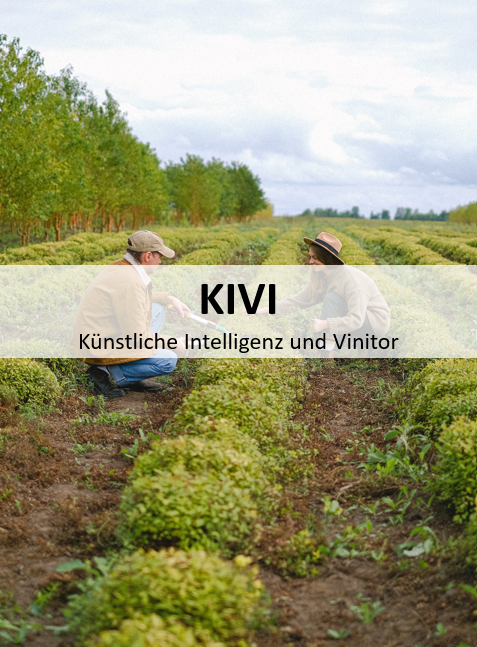
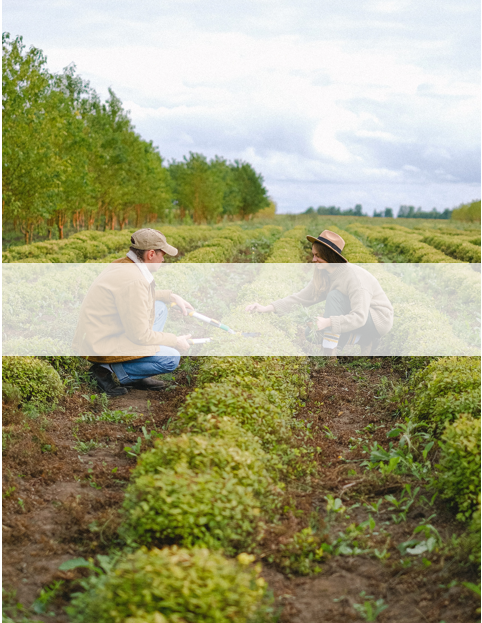
Deploying to gh-pages from  @ c149c7b318b43c5002b0c84386e6df9355ac086c 🚀

diff --git a/slides/projAward.html b/slides/projAward.html
@@ -1,4 +1,4 @@
-<!DOCTYPE html><html lang="en"><head><meta charset="utf-8"><meta name="viewport" content="width=device-width, initial-scale=1.0, maximum-scale=1.0, user-scalable=no, minimal-ui"><title>KIVI</title><meta name="author" content="1.0, 2020-08-22"><link rel="stylesheet" href="revealjs/css/reset.css"><link rel="stylesheet" href="revealjs/css/reveal.css"><link rel="stylesheet" href="revealjs/css/theme/white.css" id="theme"><!--This CSS is generated by the Asciidoctor reveal.js converter to further integrate AsciiDoc's existing semantic with reveal.js--><style type="text/css">.reveal div.right {
+<!DOCTYPE html><html lang="en"><head><meta charset="utf-8"><meta name="viewport" content="width=device-width, initial-scale=1.0, maximum-scale=1.0, user-scalable=no, minimal-ui"><title>KIVI</title><meta name="author" content="Künstliche Intelligenz und Vinitor"><link rel="stylesheet" href="revealjs/css/reset.css"><link rel="stylesheet" href="revealjs/css/reveal.css"><link rel="stylesheet" href="revealjs/css/theme/white.css" id="theme"><!--This CSS is generated by the Asciidoctor reveal.js converter to further integrate AsciiDoc's existing semantic with reveal.js--><style type="text/css">.reveal div.right {
   float: right
 }
 
@@ -392,7 +392,7 @@ td.hdlist1 {
 link.rel = 'stylesheet';
 link.type = 'text/css';
 link.href = window.location.search.match( /print-pdf/gi ) ? "revealjs/css/print/pdf.css" : "revealjs/css/print/paper.css";
-document.getElementsByTagName( 'head' )[0].appendChild( link );</script><link rel="stylesheet" href="slides.css"></head><body><div class="reveal"><div class="slides"><section class="title" data-state="title" data-background-image="../images/menschen1.jpg"><h1>KIVI</h1><p class="author"><small>1.0, 2020-08-22</small></p></section><section id="_projektteam"><h2>Projektteam</h2><div class="slide-content"><div class="imageblock plain"><img src="../images/wir.jpeg" alt="wir" width="600px"></div>
+document.getElementsByTagName( 'head' )[0].appendChild( link );</script><link rel="stylesheet" href="slides.css"></head><body><div class="reveal"><div class="slides"><section class="title" data-state="title" data-background-image="../images/menschen1.jpg"><h1>KIVI</h1><p class="author"><small>Künstliche Intelligenz und Vinitor</small></p></section><section id="_projektteam"><h2>Projektteam</h2><div class="slide-content"><div class="imageblock plain"><img src="../images/wir.jpeg" alt="wir" width="600px"></div>
 <div class="paragraph"><p>Sheila Hautzmayer und Anna Hartl</p></div></div></section>
 <section id="_vinitor" class="lightbg" data-background-image="../images/vinitor.png" data-background-size="1200px"><h2>Vinitor</h2></section>
 <section id="_proof_of_concept" class="lightbg" data-background-image="../images/pexels-photo-1068523.jpeg" data-background-size="1400px" data-background-opacity="0.8"><h2>Proof Of Concept</h2><div class="slide-content">

diff --git a/index.html b/index.html
@@ -604,7 +604,7 @@ and time-consuming. Instead, businesses nowadays require fast delivery of high-q
 <div id="footer">
 <div id="footer-text">
 Version 1.0.0<br>
-Last updated 2023-04-07 08:18:28 UTC
+Last updated 2023-04-07 08:21:34 UTC
 </div>
 </div>
 </body>

diff --git a/TestContainers.html b/TestContainers.html
@@ -521,7 +521,7 @@ Diese arbeiten im Hintergrund ebenfalls in Testcontainern.</p>
 <div id="footer">
 <div id="footer-text">
 Version 1.0.0<br>
-Last updated 2023-04-07 08:18:28 UTC
+Last updated 2023-04-07 08:21:34 UTC
 </div>
 </div>
 </body>

diff --git a/ContinuousTestingExample.html b/ContinuousTestingExample.html
@@ -596,7 +596,7 @@ jobs:
 <div id="footer">
 <div id="footer-text">
 Version 1.0.0<br>
-Last updated 2023-04-07 08:18:28 UTC
+Last updated 2023-04-07 08:21:34 UTC
 </div>
 </div>
 </body>
